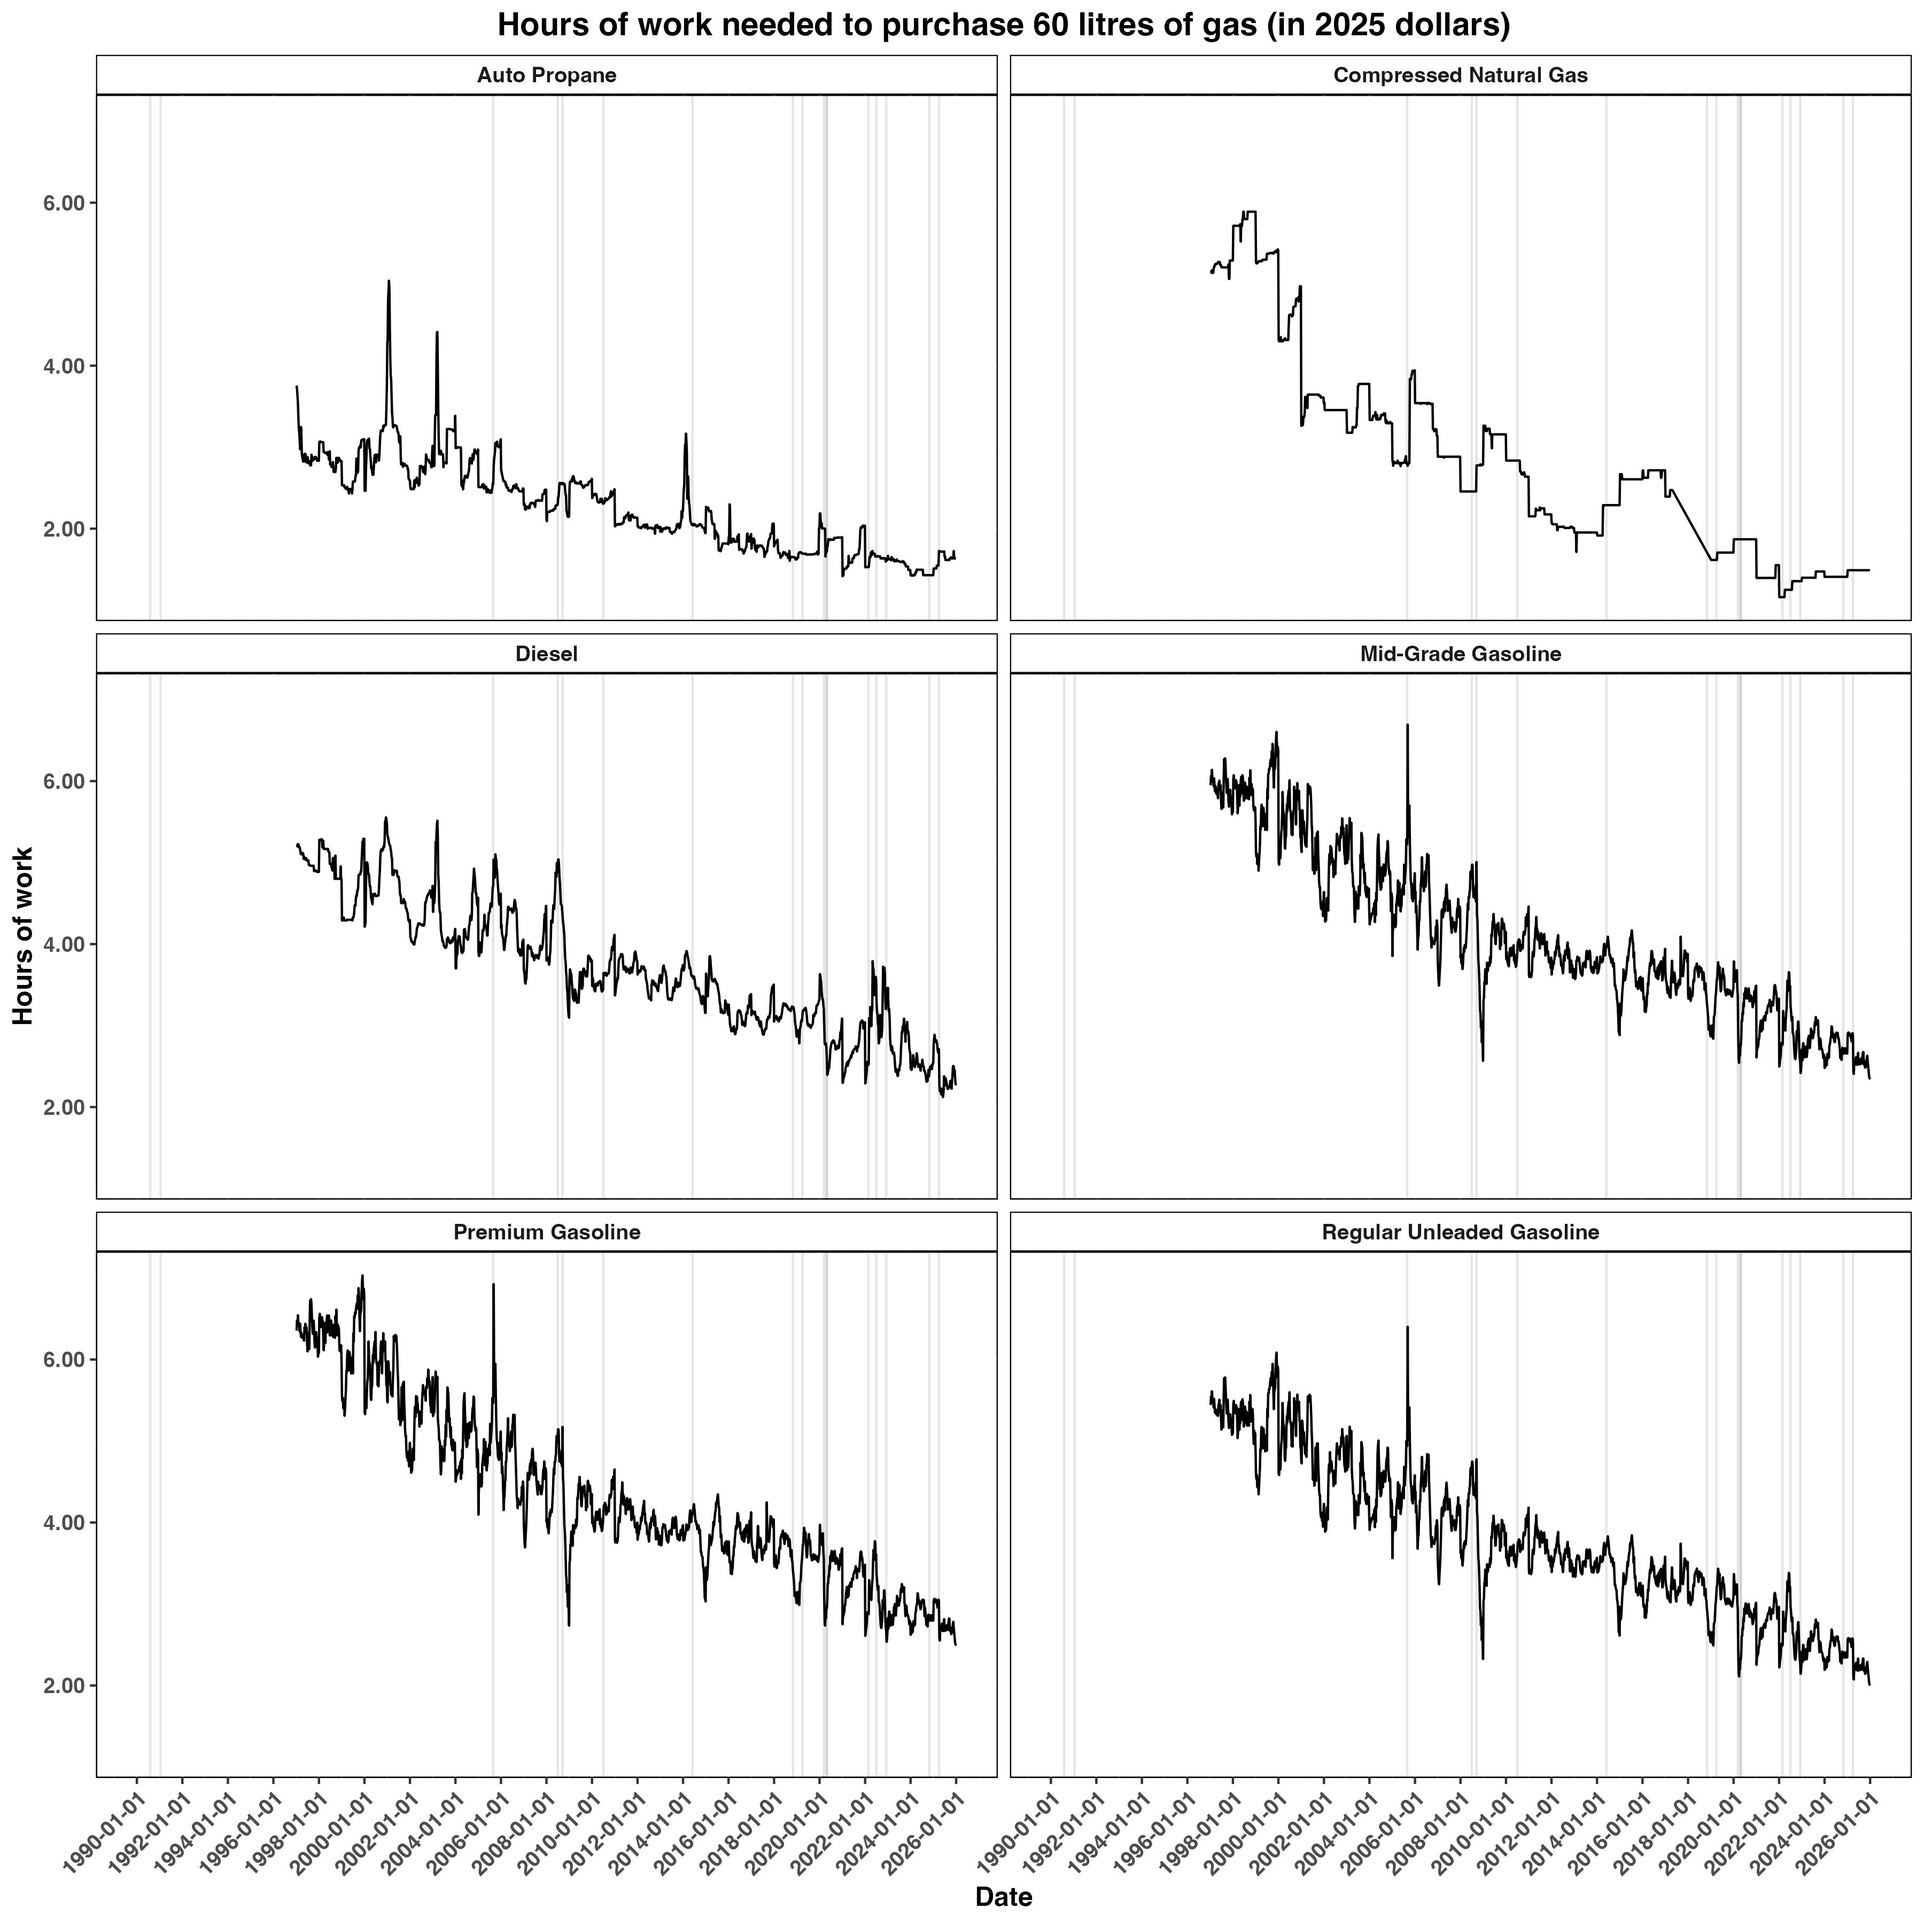
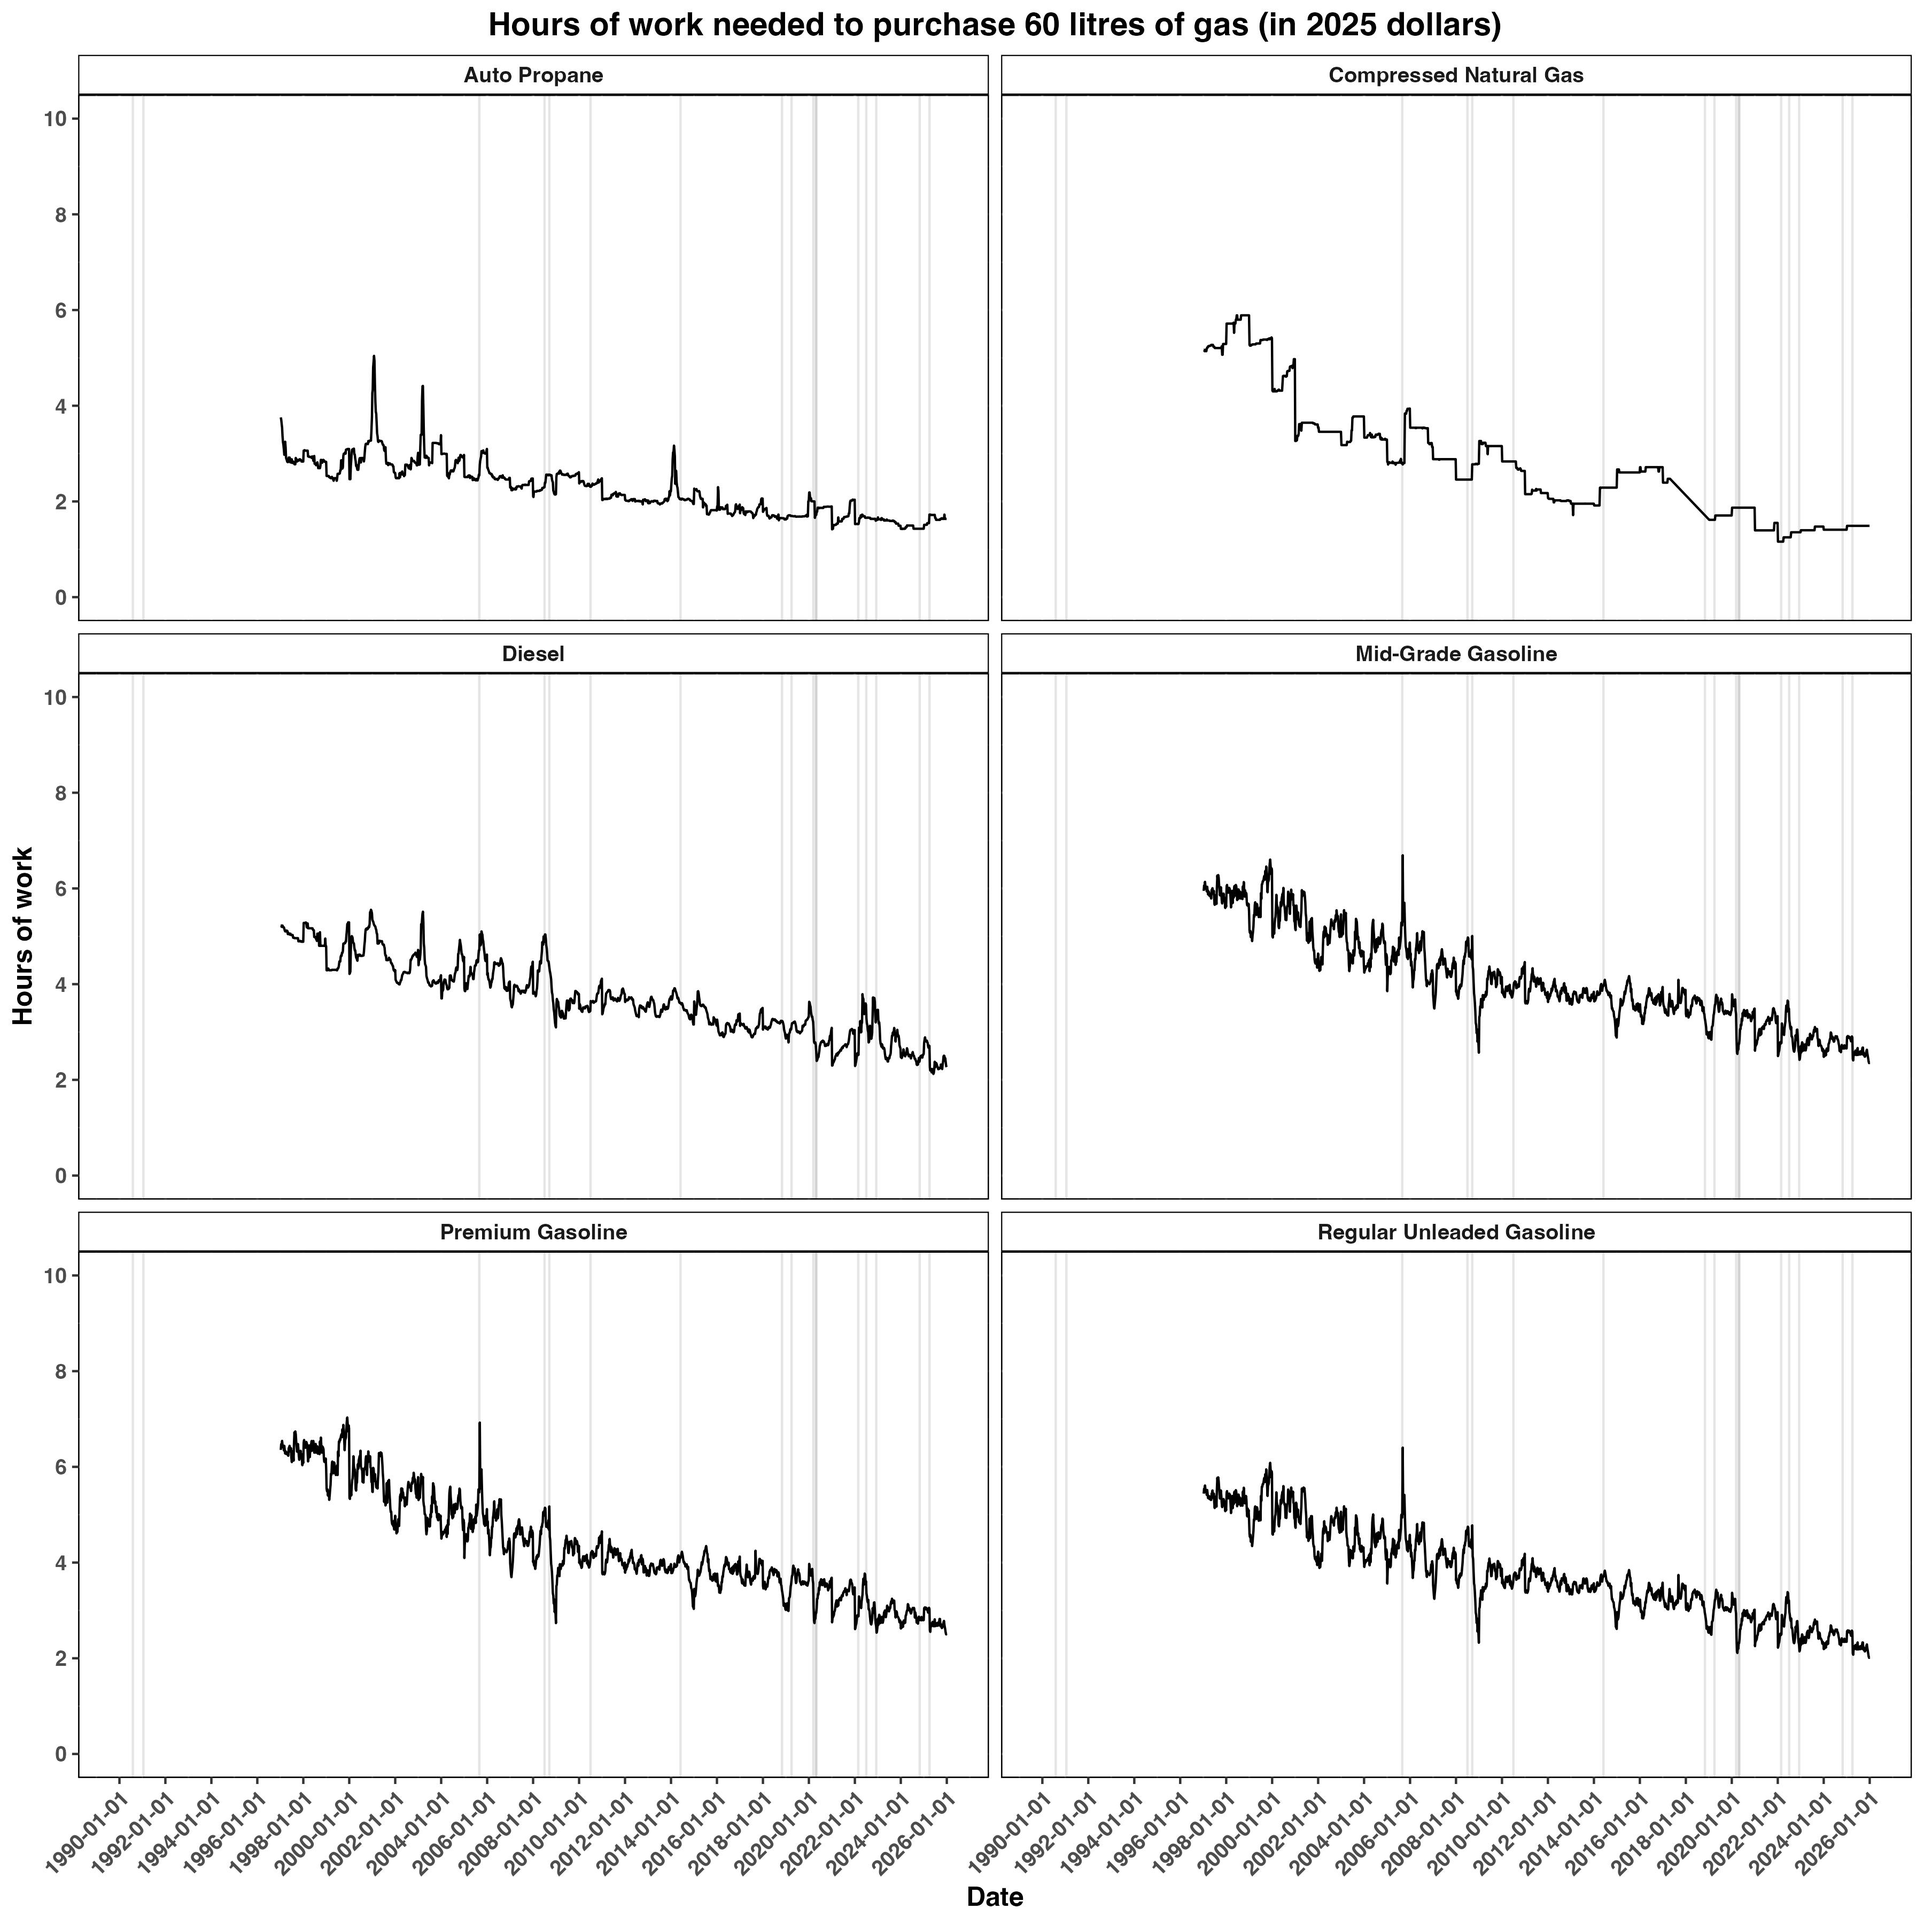
render

diff --git a/docs/gas_prices_canada.html b/docs/gas_prices_canada.html
@@ -148,7 +148,7 @@ ul.task-list li input[type="checkbox"] {
 <p><img src="images/ontario_gas_prices_inflation_adjusted.jpg" class="img-fluid"></p>
 <p>To get a better understanding how gas prices changed with respect to wages, the next figure will show how wages (in 2025 dollars), on average, progressed over time.</p>
 <p><img src="images/wages.jpg" class="img-fluid"></p>
-<p>The figure below shows how many hours of work is needed to buy 60 litres (average tank volume, approximately) of gas. It appears that the hours of work needed tends to trend downward over the years. This does not take into account the cost of other goods and needs (e.g.&nbsp;rent).</p>
+<p>The figure below shows how many hours of work is needed to buy 60 litres (average tank volume, approximately) of gas. It appears that the hours of work needed tends to trend downward over the years. This does not take into account the cost of other goods and needs (e.g.&nbsp;rent) or how wages behaved within each industry.</p>
 <p><img src="images/hours_of_work_for_60.jpg" class="img-fluid"></p>
 
 
